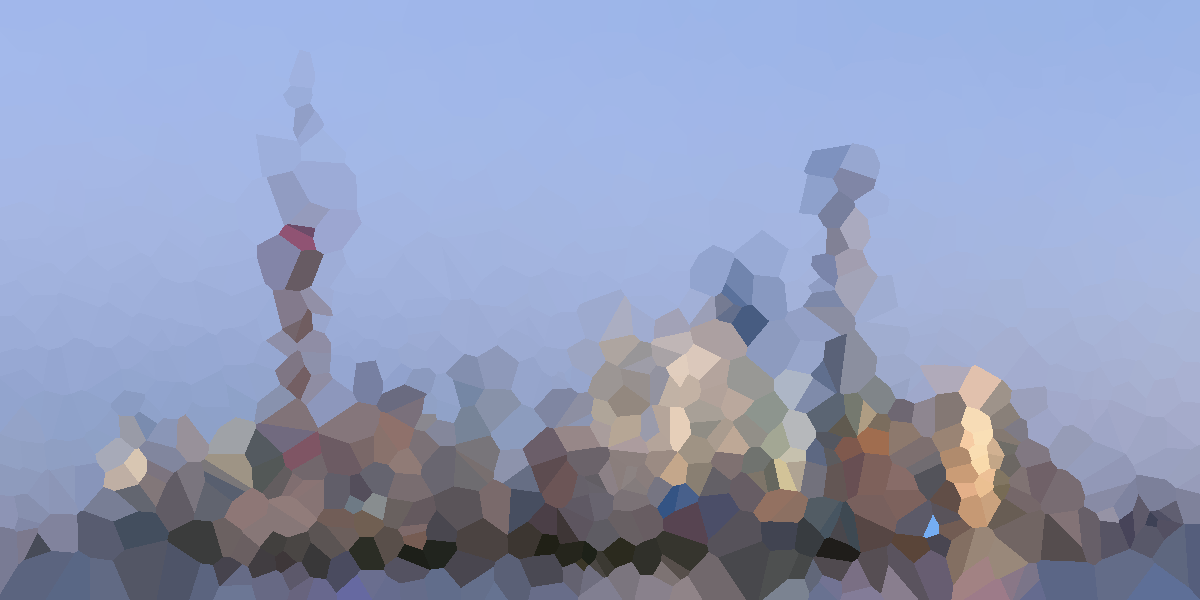
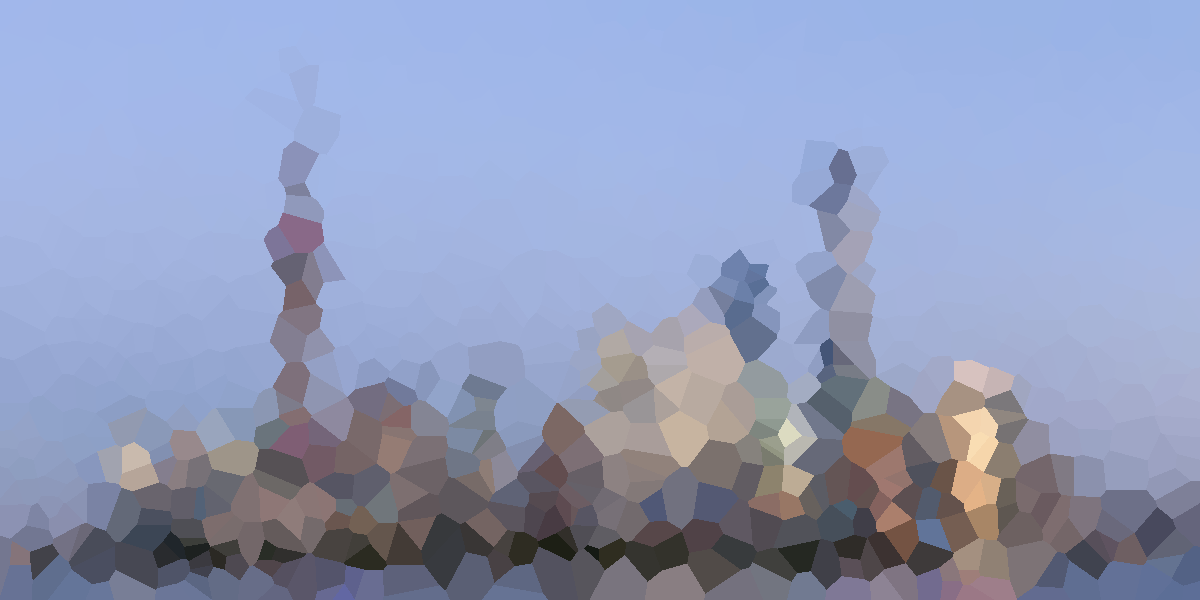
test working

diff --git a/ZhangNguyenHW6/test/TestMosaic.java b/ZhangNguyenHW6/test/TestMosaic.java
@@ -2,34 +2,49 @@ import org.junit.Test;
 
 import java.io.StringReader;
 import java.util.HashMap;
+import java.util.Random;
 
 import controller.ImageController;
 import controller.ImageControllerImpl;
+import controller.commands.ImageCommand;
+import controller.commands.Mosaic;
 import model.ImageModel;
 import model.ImageProcessorModelImpl;
 import view.ImageModelTextView;
 import view.ImageModelView;
 
-import static org.junit.Assert.assertTrue;
+import static org.junit.Assert.assertEquals;
+import static org.junit.Assert.assertThrows;
 
+/**
+ * Test class for the Mosaic Image Command. Uses pre-generated expected outputs.
+ */
 public class TestMosaic {
-
   @Test
   public void testMosaic() {
+    // use controller to load image
     HashMap<String, ImageModel> images = new HashMap<String, ImageModel>();
     ImageProcessorModelImpl model = new ImageProcessorModelImpl(images);
-    Readable read = new StringReader("load /res/shanghai.jpg image " +
-            "load /res/shanghai-1000.png expectedMosaic " +
-            "mosaic 1000 image mosaicImage q");
+    Readable read = new StringReader("");
     Appendable out = new StringBuilder();
     ImageModelView view = new ImageModelTextView(out);
-
     ImageController controller = new ImageControllerImpl(read, model, view);
-    controller.runImageProcessor();
+    controller.load("res/shanghai.png", "image");
+    ImageCommand mosaic = new Mosaic(1000, "image", "mosaicImage-1000", new Random(12345));
+    mosaic.apply(model);
+    mosaic = new Mosaic(5000, "image", "mosaicImage-5000", new Random(12345));
+    mosaic.apply(model);
+    controller.load("res/shanghai-1000.png", "expectedMosaic-1000");
+    controller.load("res/shanghai-5000.png", "expectedMosaic-5000");
 
-    ImageModel expectedImage = images.get("expectedMosaic");
-    ImageModel mosaicImage = images.get("mosaicImage");
+    assertEquals(images.get("expectedMosaic-1000"), images.get("mosaicImage-1000"));
+    assertEquals(images.get("expectedMosaic-5000"), images.get("mosaicImage-5000"));
+  }
 
-    assertTrue(expectedImage.equals(mosaicImage));
+  @Test
+  public void testMosaicError() {
+    assertThrows(IllegalArgumentException.class, () -> new Mosaic(-1, "testName", "testName"));
+    assertThrows(IllegalArgumentException.class, () -> new Mosaic(0, "testName", "testName"));
+    assertThrows(NullPointerException.class, () -> new Mosaic(10, "testName", "testName", null));
   }
 }

diff --git a/ZhangNguyenHW6/src/controller/commands/Mosaic.java b/ZhangNguyenHW6/src/controller/commands/Mosaic.java
@@ -26,18 +26,30 @@ public class Mosaic extends AbstractCommand implements ImageCommand {
    * @param newFileName new file name of image
    */
   public Mosaic(int numSeeds, String fileName, String newFileName) {
+    this(numSeeds, fileName, newFileName, new Random());
+  }
+
+  /**
+   * Constructor to apply mosaic effect with given Random object.
+   *
+   * @param numSeeds    number of seeds for mosaicing an image
+   * @param fileName    filename of image to mosaic
+   * @param newFileName new file name of image
+   * @param rand        random object used to generate seeds
+   */
+  public Mosaic(int numSeeds, String fileName, String newFileName, Random rand) {
     super(fileName, newFileName);
     if (numSeeds <= 0) {
       throw new IllegalArgumentException("Num seeds must be non-zero positive");
     }
     this.numSeeds = numSeeds;
-    this.rand = new Random();
+    this.rand = Objects.requireNonNull(rand);
   }
 
   /**
    * Applies the respective command object.
    *
-   * @param model
+   * @param model Image Processor Model that stores the images.
    */
   @Override
   public void apply(ImageProcessorModel model) {
